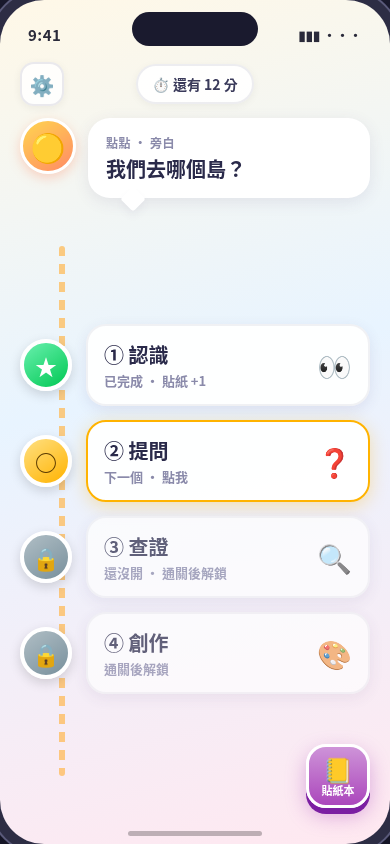
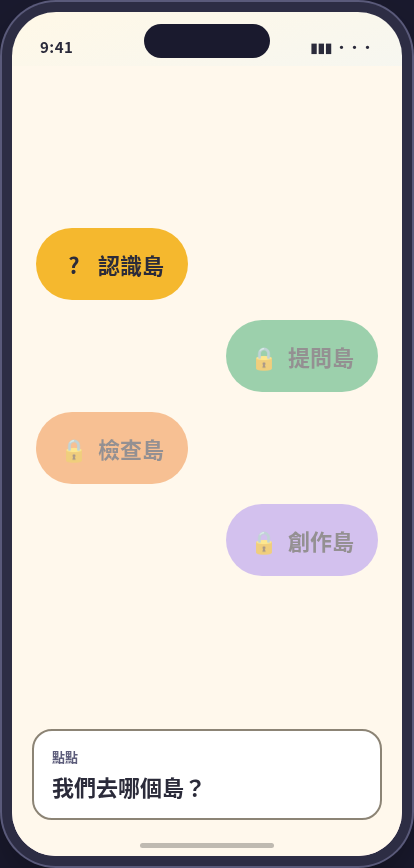
docs: mid-fi 01、02 對齊 App（Grok 2026-10-01 更新）並更新 design-map
- design/midfi：01 地圖拿掉家長齒輪、時間晶片、貼紙本，問句框在下方、四島左右交錯；
  02 跟讀頂列改成 X、進度點、喇叭，只留「一起說」。（Grok 製作）
- design-map：01 沒有差異；02 剩兩項待確認（「按住不放」一直顯示 vs 輕點才出現；設計稿少了點點的指示框）。
- TODOS 勾掉對應項目。

diff --git a/.claude/skills/verify-kidsai/references/design-map.md b/.claude/skills/verify-kidsai/references/design-map.md
@@ -16,8 +16,8 @@
 
 | mid-fi 屏 | 對到的功能與進入點 | 設計稿 |
 |---|---|---|
-| 01 地圖首頁（v1.2） | [map](./features/map.md)：`app-launch`、`map-unlock` | ![01](../../../../design/midfi/01-map.png) |
-| 02 單元 1 跟讀（v1.2.1） | [say-together](./features/say-together.md)：`button`（單元 1 `--beat 3`） | ![02](../../../../design/midfi/02-readalong.png) |
+| 01 地圖首頁（2026-10-01 對齊 App） | [map](./features/map.md)：`app-launch`、`map-unlock` | ![01](../../../../design/midfi/01-map.png) |
+| 02 單元 1 跟讀（2026-10-01 對齊 App） | [say-together](./features/say-together.md)：`button`（單元 1 `--beat 3`） | ![02](../../../../design/midfi/02-readalong.png) |
 | 03 沙盒 A｜猜猜帽（v1.2） | [sandbox](./features/sandbox.md)：`sandbox-ritual`＋單元 1 沙盒開頭（`--unit 0 --beat 4`、`--beat 5`） | ![03](../../../../design/midfi/03-sandbox-hat.png) |
 | 04 沙盒 B｜猜對示範（v1.2.2） | [sandbox](./features/sandbox.md)：`sandbox-open` 的反應畫面（單元 1 `--beat 5`） | ![04](../../../../design/midfi/04-sandbox-judge.png) |
 | 04b 沙盒 B｜猜錯變體（v1.2.2） | 同 04 | ![04b](../../../../design/midfi/04b-sandbox-judge-wrong.png) |
@@ -32,14 +32,15 @@
 
 ### 01 地圖首頁
 
-- **延後**：設計稿左上有家長齒輪、上方有時間晶片「還有 12 分」、右下有「貼紙本」；App 地圖沒有這三個。家長區與進度保存都不在首版（[首版範圍](../../../../docs/first-release-scope.md)，2026-10-01）。
-- **已定**：設計稿點點的問句框在上方、島是一條直的路徑清單；App 的問句框在下方。以 App 為準（[首版範圍](../../../../docs/first-release-scope.md)，2026-10-01），mid-fi 待 Grok 更新。
+2026-10-01 Grok 照[首版範圍](../../../../docs/first-release-scope.md)把設計稿改成 App 現況（拿掉家長齒輪、時間晶片、貼紙本；問句框在下方；四島左右交錯），目前沒有差異。
 - **有出處**：第三島設計稿叫「查證」，App 叫「檢查島」— 以內容 JSON（`unit_3_verify` 的標題「檢查島：當個小偵探」）為準。
 
 ### 02 單元 1 跟讀
 
-- **有出處**：設計稿有麥克風（點一下開始、自動結束）；App 本版只有「一起說」。語音辨識是 L3，要等 ASR spike 定案（`docs/spikes/`、AGENTS.md 的語音辨識規則）。
-- **已定**：設計稿頂列是「←」＋單元晶片「① 認識」＋齒輪；App 頂列是長按 1.5 秒才離開的 X、進度點、🔊。以 App 為準（長按防孩子誤觸），齒輪延後（[首版範圍](../../../../docs/first-release-scope.md)，2026-10-01）。
+2026-10-01 Grok 照[首版範圍](../../../../docs/first-release-scope.md)把頂列改成 X、進度點、🔊，並拿掉麥克風、只留「一起說」（語音辨識首版不含）。剩下的差異：
+
+- **待確認**：設計稿在 X 下方一直顯示「回地圖要按住不放」；App 只有輕點 X 時才出現「按住不放」。
+- **待確認**：App 在句子卡上方有點點的指示框「按一下嘴巴按鈕，我們一起說。」；設計稿沒有。
 
 ### 03 沙盒 A｜猜猜帽
 

diff --git a/TODOS.md b/TODOS.md
@@ -8,7 +8,7 @@
 |---|---|
 | 0–1 範圍、玩法骨架 | ✅ 首版範圍定案：不含語音辨識、進度只在記憶體、家長區只有家長卡、只做 iPhone 直向（#9、#12） |
 | 2 關卡腳本 | ✅ 單元 1–4 JSON 通過驗證，AI 猜測已核准 |
-| 3 低保真原型＋孩子試玩 | 🟡 mid-fi 有（01、02 已由 Grok 對齊 App，還沒 commit）；試玩步驟與彙總表完成（#10）；等 iPhone 配對後找孩子試玩 |
+| 3 低保真原型＋孩子試玩 | 🟡 mid-fi 有（01、02 已對齊 App）；試玩步驟與彙總表完成（#10）；等 iPhone 配對後找孩子試玩 |
 | 4 合規 | 🟡 Checklist v1；隱私權政策草稿、送審資料、Privacy Manifest 完成（#16）；律師、聯絡資訊、網址待定 |
 | 5 技術骨架 | ✅ Milestone 0；CI 每次 PR 建置 App、跑 69 個 App 單元測試與 103 個驗證工具測試（#11） |
 | 6 關卡引擎 | 🟡 引擎 v2，單元 1–4 可在模擬器從頭玩到尾；版面掃描（iPhone SE、大字級）的問題已修（#8、#13）；語音辨識 spike 與實機試玩等 iPhone 配對 |
@@ -44,8 +44,8 @@
 - [ ] 實機確認 iPad 相容模式的橫向（審查員常用 iPad 測）
 
 ### Grok 與 Notion
-- [ ] commit Grok 對 mid-fi 01、02 的更新（工作目錄裡 `design/midfi/01-map.png`、`02-readalong.png`、`README.md` 還沒 commit）
-- [x] 請 Grok 依首版範圍把 mid-fi 01 地圖、02 頂列改成 App 現況（2026-10-01，Grok 已改，待 commit）
+- [x] commit Grok 對 mid-fi 01、02 的更新（2026-10-03）
+- [x] 請 Grok 依首版範圍把 mid-fi 01 地圖、02 頂列改成 App 現況（2026-10-01）
 - [ ] 請 Grok 依 [首版範圍](docs/first-release-scope.md) 同步 Notion
 - [ ] 把 Notion 路線圖狀態的更新 prompt 貼給 Grok（如果還沒貼）
 - [ ] 請 Grok 修正 Notion 線框裡已過時的地方：家長閘、Sign in with Apple、按住說話、「給點點猜」、垃圾桶
@@ -63,7 +63,7 @@
 ## Claude 要做的
 
 ### 等輸入
-- [ ] mid-fi 01、02 commit 後：更新 [design-map](.claude/skills/verify-kidsai/references/design-map.md) 01、02 的差異（應該只剩「已定」與「延後」）
+- [x] mid-fi 01、02 commit 後：更新 [design-map](.claude/skills/verify-kidsai/references/design-map.md) 01、02 的差異（2026-10-03；01 沒有差異，02 剩兩項待確認的小差異）
 - [ ] 收到單元 1 試玩彙總 → 整理要修的地方（玩法、旁白節奏、圖像線索），Michael 排優先順序；順便決定「AI 看到的」欄（首版範圍的待決策項）
 - [ ] 收到 spike 數字 → 整理 [報告](docs/spikes/asr-spike-report.md) 與建議路徑，Michael 定案
 - [ ] spike 定案後，提 L3 計畫：正式 App 加入跟讀功能與隱私權限說明（隱私權政策、Privacy Manifest、送審資料要一起改）

diff --git a/design/midfi/README.md b/design/midfi/README.md
@@ -1,16 +1,16 @@
-# mid-fi 參考圖（v1.2.2）
+# mid-fi 參考圖（v1.2.2，01／02 於 2026-10-01 對齊 App）
 
 七張 390×844 的設計稿截圖，給驗證層對照 App 畫面用（[design-map.md](../../.claude/skills/verify-kidsai/references/design-map.md)）。只是參考，不打包進 App。
 
-- 來源：Notion「mid-fi 準稿 v1.2.2（HTML＋截圖｜七屏）」，2026-09-23 版（Grok 製作）。2026-09-28 由 Claude Code 從該頁唯讀下載，未修改。
+- 來源：Notion「mid-fi 準稿 v1.2.2（HTML＋截圖｜七屏）」，2026-09-23 版（Grok 製作）。2026-09-28 由 Claude Code 從該頁唯讀下載。2026-10-01 Grok 依 docs/first-release-scope.md 只改了 01、02，對齊 App：01 拿掉家長齒輪、時間晶片、貼紙本，問句在下方、四島左右交錯；02 改成長按 X、進度點、喇叭，跟讀只有「一起說」，沒有麥克風。
 - 畫面審閱以 Figma「KidsAI · mid-fi v1 PNG」為準；字級、觸控、色票以 Notion 的原始碼子頁為準。
 - 內容只有設計稿；06 的研究代號「F07」與統計數字是設計佔位，不是真實孩子的資料。
 - Notion 上的設計改版時，重新下載並更新本檔的版本與日期，也要更新 design-map.md。
 
 | 檔案 | 畫面 | mid-fi 版本 |
 |---|---|---|
-| `01-map.png` | 01 地圖首頁 | v1.2 |
-| `02-readalong.png` | 02 單元 1 跟讀 | v1.2.1 |
+| `01-map.png` | 01 地圖首頁 | 2026-10-01 對齊 App |
+| `02-readalong.png` | 02 單元 1 跟讀 | 2026-10-01 對齊 App |
 | `03-sandbox-hat.png` | 03 沙盒 A｜猜猜帽 | v1.2 |
 | `04-sandbox-judge.png` | 04 沙盒 B｜判斷｜猜對示範 | v1.2.2 |
 | `04b-sandbox-judge-wrong.png` | 04b 沙盒 B｜判斷｜猜錯變體 | v1.2.2 |
